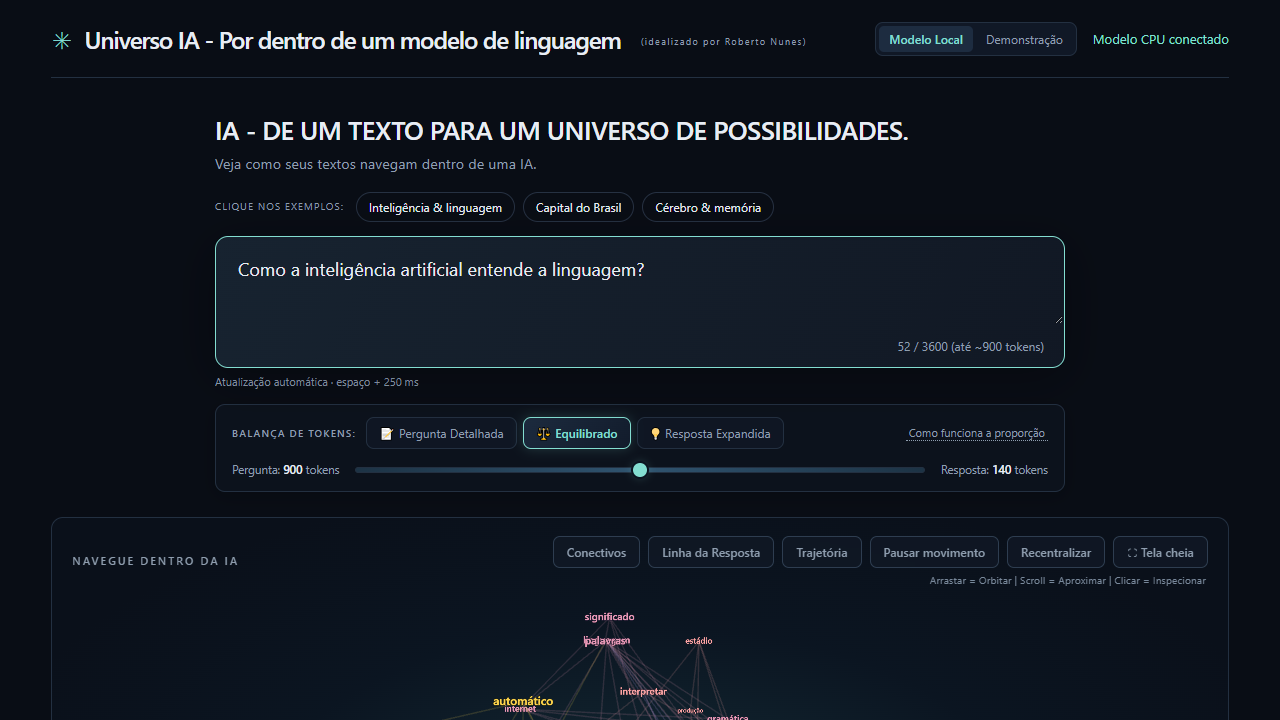
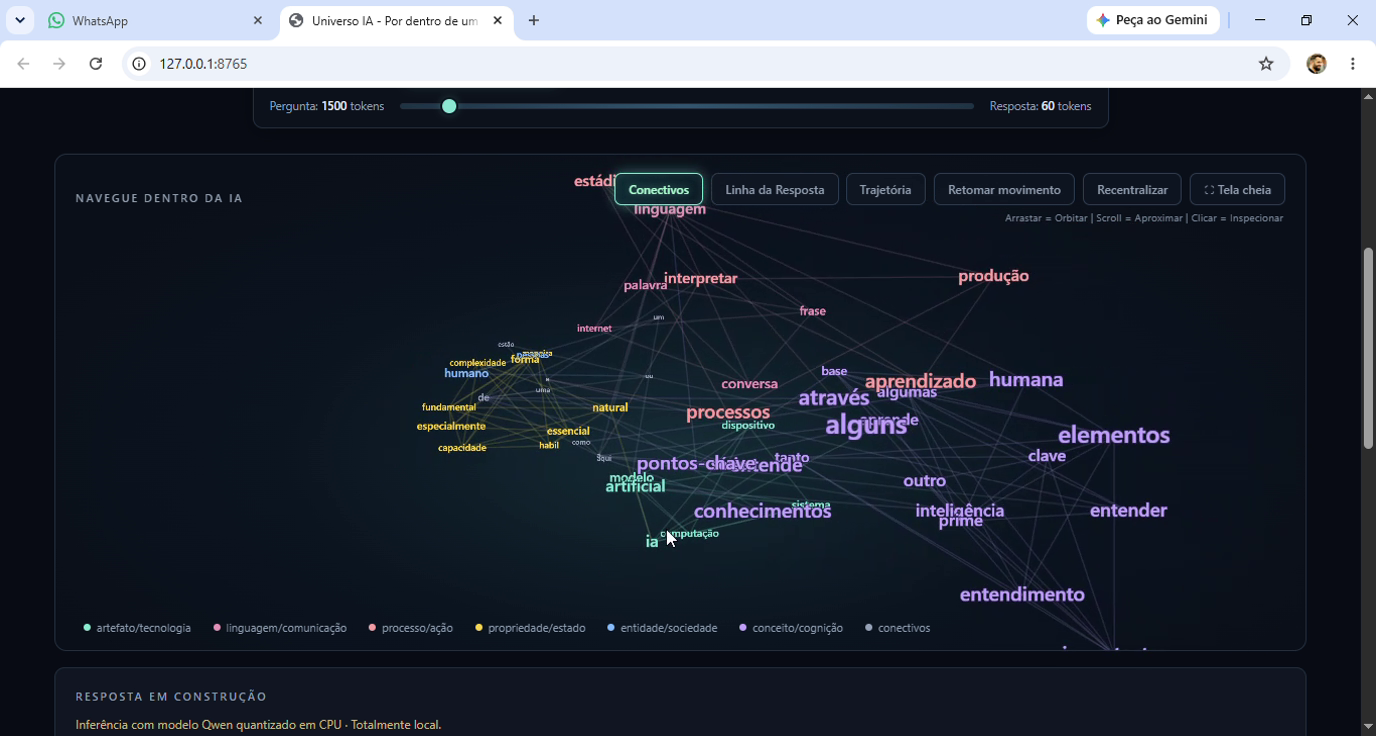
docs: masteriza demonstracoes em gif de alta resolucao e aprimora README (v0.6.0)
- Sintetiza as gravacoes originais do autor em 3 GIFs otimizados com dithering Bayer:
  - docs/demo.gif: demonstracao completa de ponta a ponta (prompt, nuvem 3D, conectivos, cometa e modo investigativo)
  - docs/trajetoria-3d.gif: deep-dive em 60 FPS na topologia orbital, conectivos e rastro neural
  - docs/modo-investigativo.gif: deep-dive na amostragem e distribuicao de probabilidade direta e indireta
  - docs/demo.png: nova imagem de capa em resolucao nativa 1376x736
- Integra os novos ativos visuais no README.md com secoes dedicadas
- Preserva zero emojis (mantendo apenas o fechamento de estrela)
- Registra alteracoes no CHANGELOG.md e configura .gitignore para proteger videos brutos

diff --git a/README.md b/README.md
@@ -41,6 +41,12 @@ A mecânica interna de um Large Language Model é frequentemente tratada como um
 - **Filtro de Conectivos Estruturais**: Alternância instantânea que permite ocultar ou evidenciar palavras funcionais de ligação sem fragmentar as conexões semânticas entre conceitos centrais.
 - **Privacidade Absoluta e Custo Zero**: Nenhum dado trafega fora da sua máquina local. Sem telemetria oculta, sem cadastros, sem custos por token ou dependência de internet após a instalação inicial.
 
+### Topologia Tridimensional e Trajetória Neural
+
+![Topologia Tridimensional e Trajetória Neural](docs/trajetoria-3d.gif)
+
+*Navegação orbital a 60 FPS: agrupamento semântico dinâmico, realce da linha de pensamento em pulso dourado e condução do cometa de trajetória ao longo da resposta gerada.*
+
 ---
 
 ## Início Rápido (Quickstart)
@@ -167,6 +173,12 @@ Diferente de interfaces de chat tradicionais, o Universo IA expõe diretamente a
 | **Pergunta Detalhada** | ~1.500 tokens | 60 tokens | Perguntas longas, análise de parágrafos extensos | Menor tempo de resposta final |
 | **Equilibrado** | ~900 tokens | 140 tokens | Perguntas cotidianas com respostas completas e explicativas | Equilíbrio ideal para CPU |
 | **Resposta Expandida** | ~400 tokens | 260 tokens | Perguntas diretas que demandam geração detalhada e rica | Maior profundidade na nuvem 3D |
+
+### Modo Investigativo e Auditoria de Probabilidades
+
+![Modo Investigativo e Balança de Tokens](docs/modo-investigativo.gif)
+
+*Inspeção retrospectiva de amostragem: clique em qualquer token da resposta para revelar a distribuição de probabilidade das alternativas diretas e indiretas computadas pelo modelo.*
 
 ---
 

diff --git a/CHANGELOG.md b/CHANGELOG.md
@@ -5,6 +5,19 @@ O formato é baseado no padrão [Keep a Changelog](https://keepachangelog.com/pt
 
 ---
 
+## [0.6.0] - 2026-10-10
+
+### Adicionado
+- Masterização e síntese dos novos vídeos em alta definição gravados pelo autor em 3 demonstrações em GIF otimizadas (< 8 MB, paleta de 128 cores com dithering Bayer e reamostragem Lanczos):
+  - `docs/demo.gif` (6.73 MB, 21.0s): Demonstração visual de ponta a ponta (prompt, florescimento da nuvem 3D, inspeção lexical transparente, conectivos estruturais, linha de resposta e Modo Investigativo).
+  - `docs/trajetoria-3d.gif` (5.10 MB): Deep-dive de topologia tridimensional, navegação orbital suave a 60 FPS, filtro de conectivos e cometa de trajetória neural.
+  - `docs/modo-investigativo.gif` (2.67 MB): Deep-dive de interpretabilidade e amostragem de tokens, com clique interativo em palavras da resposta e auditoria em tempo real das distribuições de probabilidade direta e indireta.
+  - `docs/demo.png` (307 KB, 1376x736): Nova imagem de capa de alta resolução exibindo a constelação semântica completa com agrupamento dinâmico.
+- Seções de aprofundamento visual integradas ao `README.md` ilustrando a topologia neural e a balança probabilística de tokens.
+- Otimização do `.gitignore` para preservar os vídeos brutos em disco sem inflar o histórico de commits do repositório Git.
+
+---
+
 ## [0.5.9] - 2026-10-10
 
 ### Modificado
